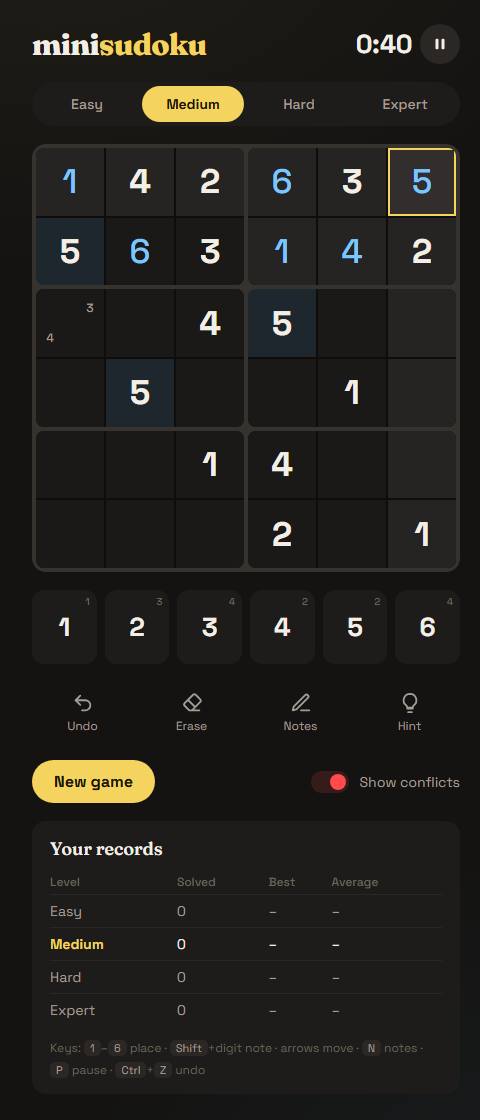
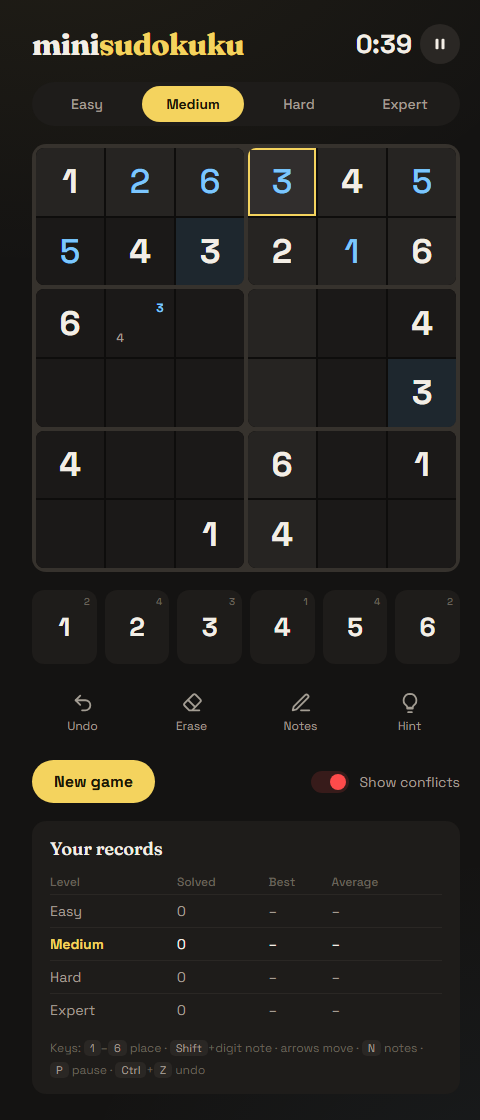
miniSudokuku: use the project name in the game itself
The logo, page title, generator header and JS global said "miniSudoku".
Saved data moves to minisudokuku.* keys; existing records and games
under the old keys are carried over on first load. New screenshot.

diff --git a/miniSudokuku/game.js b/miniSudokuku/game.js
@@ -1,10 +1,10 @@
 (function () {
   'use strict';
 
-  const G = window.MiniSudoku;
+  const G = window.MiniSudokuku;
   const { CELLS, PEERS, DIFFICULTIES, rowOf, colOf, boxOf } = G;
   const HINT_PENALTY_MS = 15000;
-  const KEYS = { stats: 'minisudoku.stats.v1', game: 'minisudoku.game.v1', prefs: 'minisudoku.prefs.v1' };
+  const KEYS = { stats: 'minisudokuku.stats.v1', game: 'minisudokuku.game.v1', prefs: 'minisudokuku.prefs.v1' };
 
   const $ = sel => document.querySelector(sel);
   const store = {
@@ -15,6 +15,16 @@
     set(key, value) { try { localStorage.setItem(key, JSON.stringify(value)); } catch { /* storage unavailable */ } },
     remove(key) { try { localStorage.removeItem(key); } catch { /* storage unavailable */ } },
   };
+
+  // Carry over data saved under the old "minisudoku.*" keys.
+  for (const key of Object.values(KEYS)) {
+    try {
+      const old = key.replace('minisudokuku.', 'minisudoku.');
+      const raw = localStorage.getItem(old);
+      if (raw !== null && localStorage.getItem(key) === null) localStorage.setItem(key, raw);
+      localStorage.removeItem(old);
+    } catch { /* storage unavailable */ }
+  }
 
   const prefs = Object.assign({ difficulty: 'easy', conflicts: true }, store.get(KEYS.prefs, {}));
   let stats = store.get(KEYS.stats, {});

diff --git a/miniSudokuku/index.html b/miniSudokuku/index.html
@@ -3,7 +3,7 @@
 <head>
   <meta charset="utf-8">
   <meta name="viewport" content="width=device-width, initial-scale=1">
-  <title>Mini Sudoku</title>
+  <title>miniSudokuku</title>
   <link rel="preconnect" href="https://fonts.googleapis.com">
   <link rel="preconnect" href="https://fonts.gstatic.com" crossorigin>
   <link href="https://fonts.googleapis.com/css2?family=Fraunces:opsz,wght@9..144,600;9..144,800&family=Space+Grotesk:wght@400;500;700&display=swap" rel="stylesheet">
@@ -12,7 +12,7 @@
 <body>
   <main class="app">
     <header class="top">
-      <h1 class="logo">mini<em>sudoku</em></h1>
+      <h1 class="logo">mini<em>sudokuku</em></h1>
       <div class="clock">
         <span id="timer" class="timer" aria-live="off">0:00</span>
         <button id="pauseBtn" class="icon-btn" title="Pause (P)" aria-label="Pause">

diff --git a/miniSudokuku/generator.js b/miniSudokuku/generator.js
@@ -1,5 +1,5 @@
 /*
- * Mini Sudoku generator & solver.
+ * miniSudokuku generator & solver.
  * 6x6 grid, blocks of 2 rows x 3 columns, digits 1-6.
  * Cells are indexed 0..35 (row * 6 + col). Empty cells are 0.
  * Candidate sets are bitmasks where bit d means digit d is possible.
@@ -234,5 +234,5 @@
   };
 
   if (typeof module !== 'undefined' && module.exports) module.exports = api;
-  else root.MiniSudoku = api;
+  else root.MiniSudokuku = api;
 })(this);
